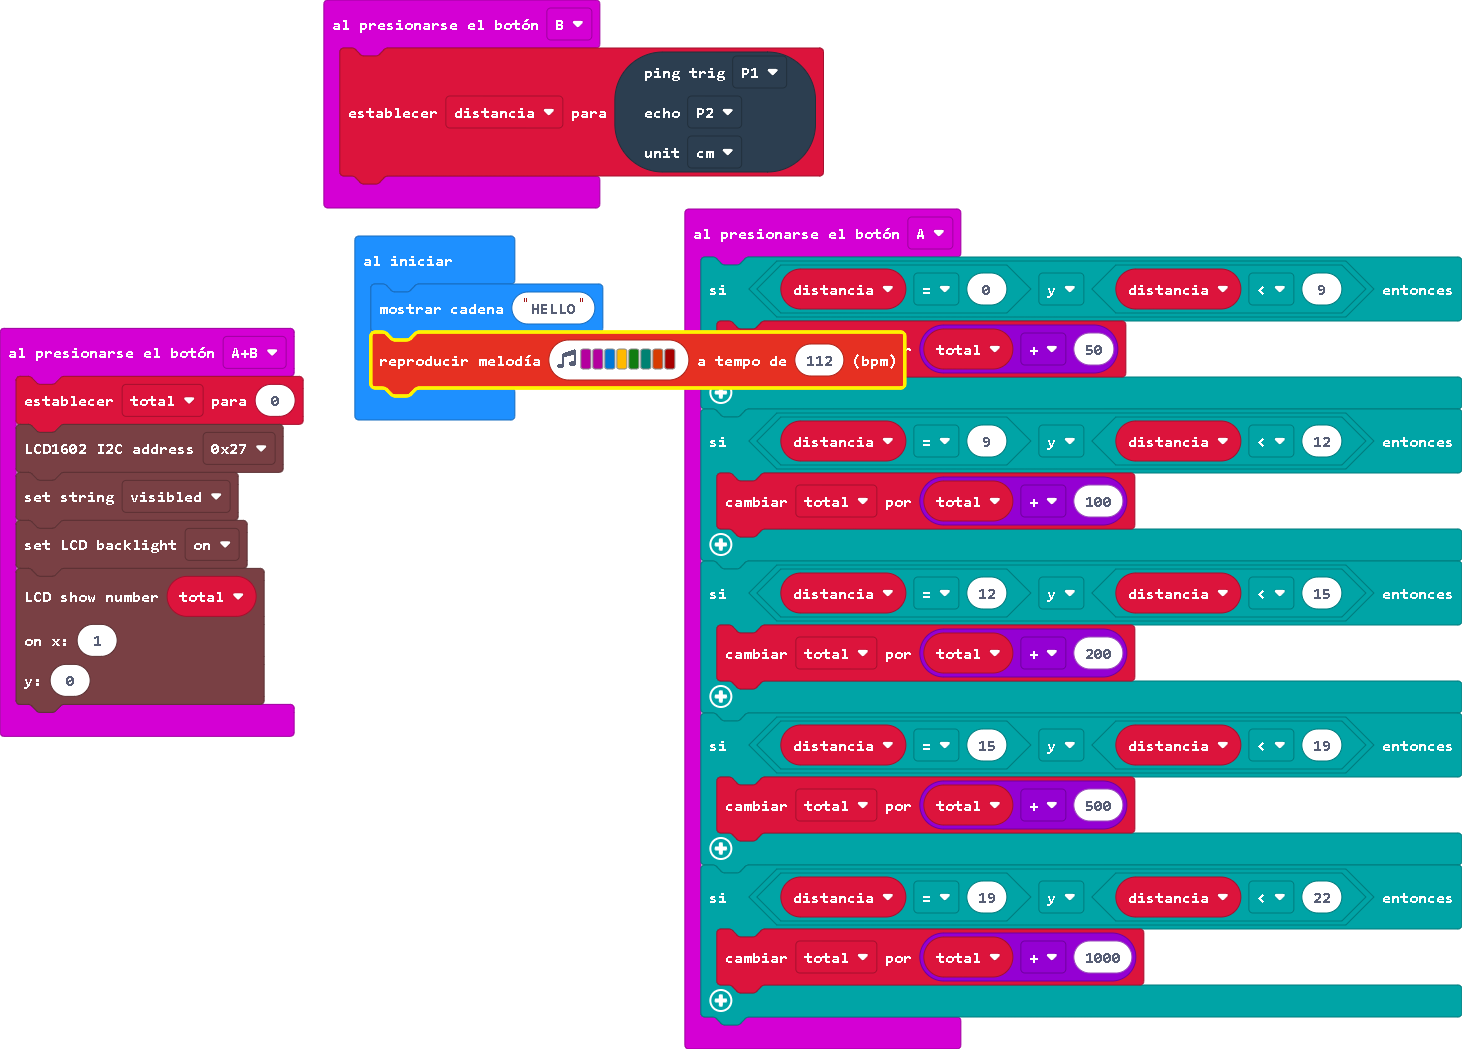
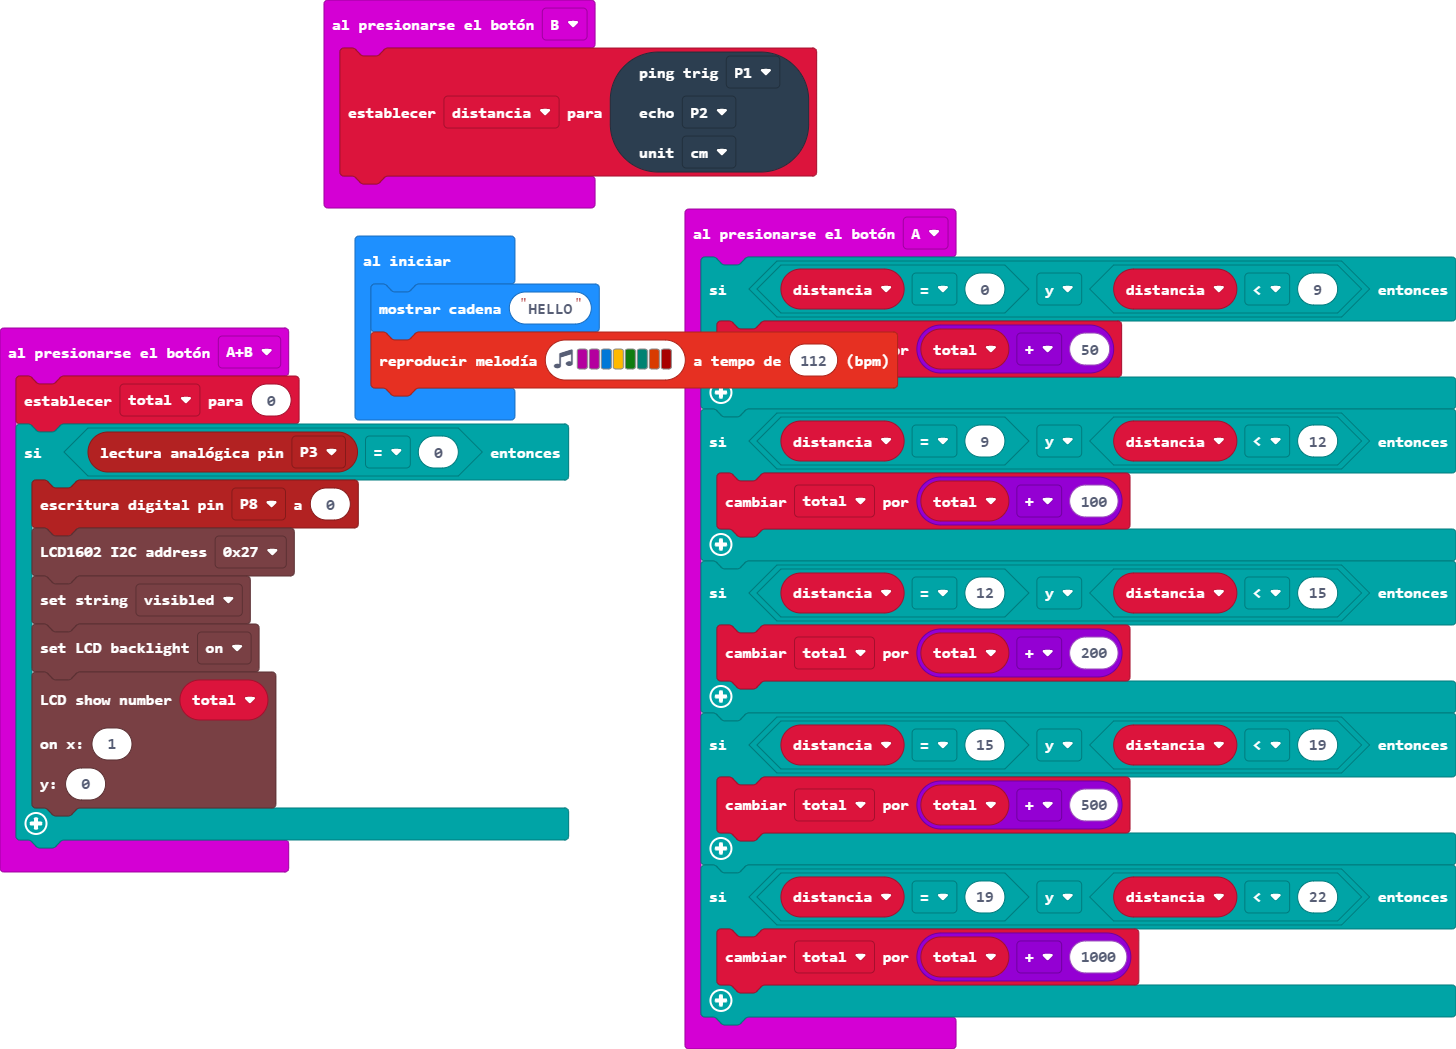
Actualizar main.blocks, main.ts

diff --git a/main.ts b/main.ts
@@ -17,16 +17,19 @@ input.onButtonPressed(Button.A, function () {
 })
 input.onButtonPressed(Button.AB, function () {
     total = 0
-    lcd1602.setAddress(
-    lcd1602.I2C_ADDR.addr1
-    )
-    lcd1602.set_LCD_Show(lcd1602.visibled.visible)
-    lcd1602.set_backlight(lcd1602.on_off.on)
-    lcd1602.putNumber(
-    total,
-    1,
-    0
-    )
+    if (pins.analogReadPin(AnalogPin.P3) == 0) {
+        pins.digitalWritePin(DigitalPin.P8, 0)
+        lcd1602.setAddress(
+        lcd1602.I2C_ADDR.addr1
+        )
+        lcd1602.set_LCD_Show(lcd1602.visibled.visible)
+        lcd1602.set_backlight(lcd1602.on_off.on)
+        lcd1602.putNumber(
+        total,
+        1,
+        0
+        )
+    }
 })
 input.onButtonPressed(Button.B, function () {
     distancia = sonar.ping(
